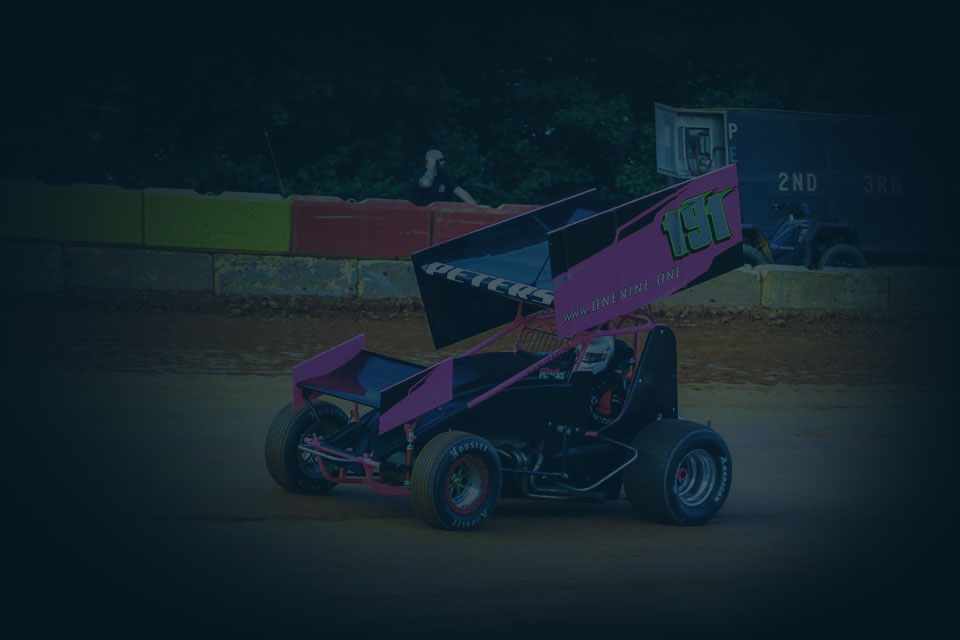
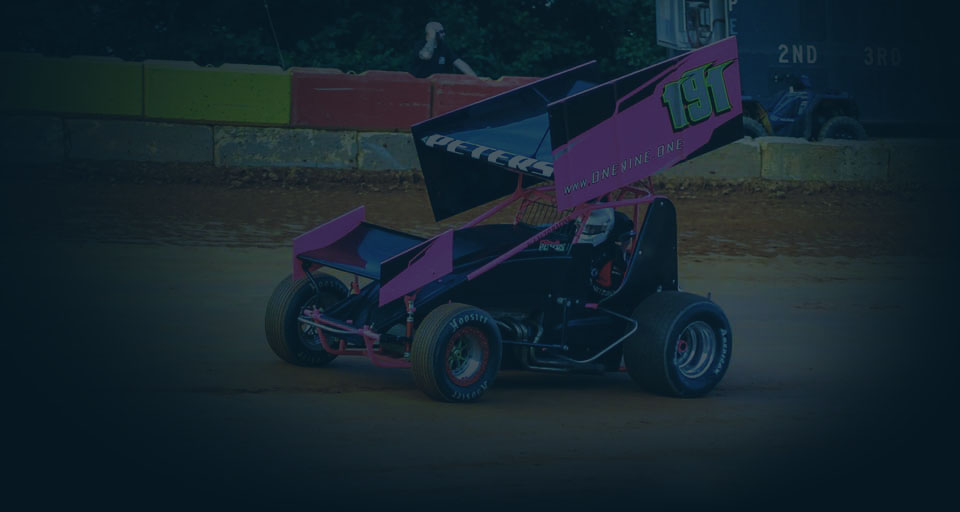
fixed mobile nav

Changed region(s): [[0.125, 0.0, 0.9062, 0.8438]]

diff --git a/assets/css/main.css b/assets/css/main.css
@@ -184,10 +184,10 @@ th {
         width: 100%;
     }
 
-    button.navbar-toggler {
+    /* button.navbar-toggler {
         position: absolute;
        right: 0;
-    }
+    } */
 
     .collapse, .navbar-collapse {
         text-align: center;
@@ -198,5 +198,15 @@ th {
         margin-right: auto;
         margin-left: auto;
         width: 100%;
+    }
+
+    .navbar-dark .navbar-nav .nav-link {
+        color: white;
+    }
+}
+
+@media screen and (min-width: 1080px) {
+    .jumbotron {
+        height: 85vh;
     }
 }
